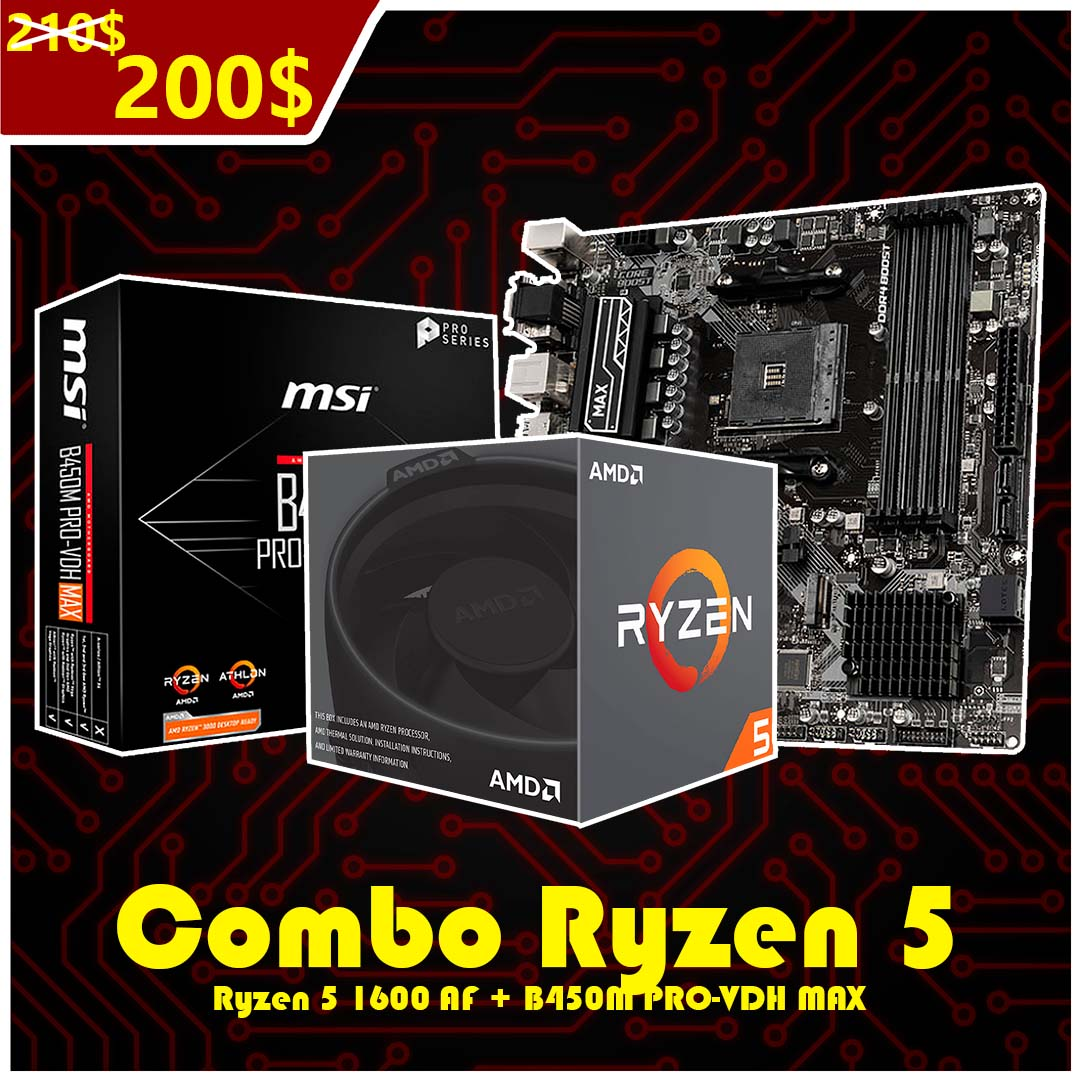
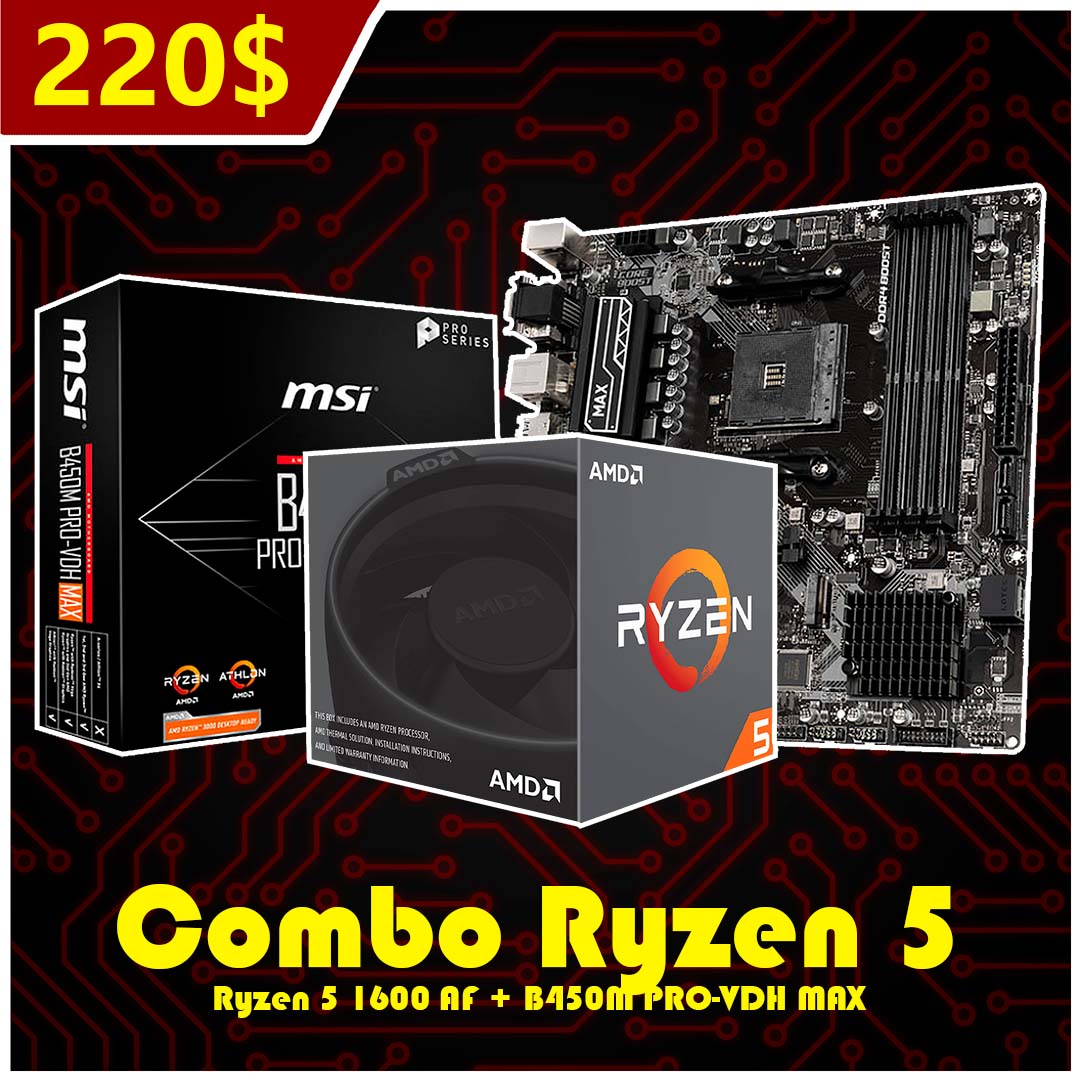
Add files via upload

Changed region(s): [[0.0, 0.0, 0.3056, 0.1222]]

diff --git a/tienda.html b/tienda.html
@@ -79,7 +79,7 @@
         <div class="col-md-3">
           <a class="portfolio-item" style="background-image: url(img/p2.jpg);" href="https://www.facebook.com/marketplace/item/610694133840285/">
             <div class="details">
-              <h4>Combo Ryzen 5 + RAM (280$)</h4>
+              <h4>Combo Ryzen 5 + RAM (300$)</h4>
               <span>Ryzen 5 1600 AF @4.0GHz 6N/12H</span>
               <span>MSI B450M PRO-VDH MAX</span>
               <span>2x8GB RAM DDR4 3200MHz Corsair</span>
@@ -90,7 +90,7 @@
         <div class="col-md-3">
           <a class="portfolio-item" style="background-image: url(img/p2.1.jpg);" href="https://www.facebook.com/marketplace/item/375323948141797/">
             <div class="details">
-              <h4>Combo Ryzen 5 (200$)</h4>
+              <h4>Combo Ryzen 5 (220$)</h4>
               <span>Ryzen 5 1600 AF @4.0GHz 6N/12H</span>
               <span>MSI B450M PRO-VDH MAX</span>
             </div>
@@ -109,7 +109,7 @@
         <div class="col-md-3">
           <a class="portfolio-item" style="background-image: url(img/p3.jpg);" href="https://www.facebook.com/marketplace/item/797171201455524/">
             <div class="details">
-              <h4>Ryzen 5 1600AF (110$)</h4>
+              <h4>Ryzen 5 1600AF (130$)</h4>
               <span>Socket AM4</span>
               <span>3.2GHz</span>
               <span>6N/12H</span>
@@ -222,7 +222,7 @@
         <div class="col-md-3">
           <a class="portfolio-item" style="background-image: url(img/p5.jpg);" href="https://www.facebook.com/marketplace/item/751499192736362/">
             <div class="details">
-              <h4>RX 580 8GB (190$)</h4>
+              <h4>RX 580 8GB (170$)</h4>
               <span>Saphire Pulse</span>
               <span>8GB GDDR5</span>
               <span>Requiere cable PCIe 6+2</span>
